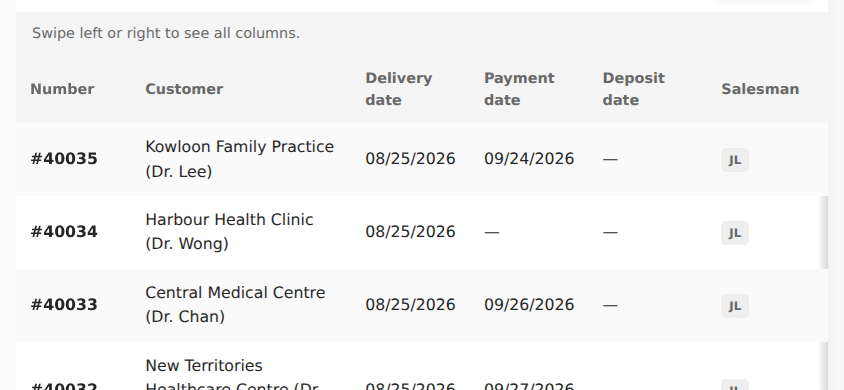
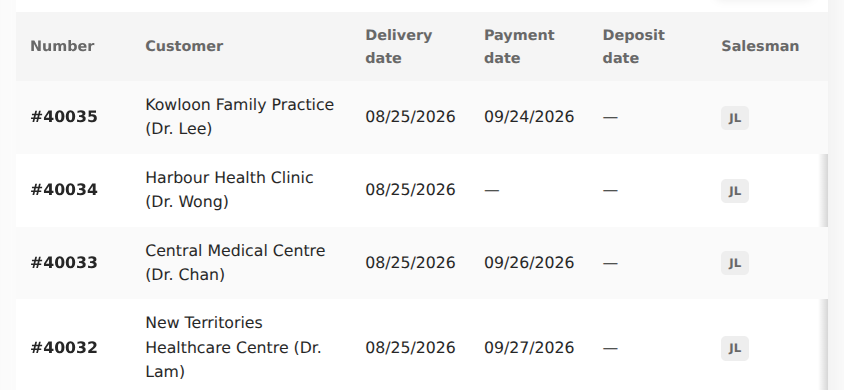
Remove redundant table hints from monthly reports

diff --git a/lafarge/static/js/responsive_tables.js b/lafarge/static/js/responsive_tables.js
@@ -106,13 +106,6 @@
           row.cells[keyColumn]?.classList.add("erp-sticky-key");
       });
     }
-    const hint = document.createElement("p");
-    hint.className = "table-scroll-hint";
-    hint.id = `${viewport.id}-hint`;
-    hint.textContent = "Swipe left or right to see all columns.";
-    viewport.before(hint);
-    viewport.setAttribute("aria-describedby", hint.id);
-
     if (stackable && !nested) {
       const controls = document.createElement("div");
       controls.className = "record-table-controls";
@@ -192,14 +185,12 @@
         portrait.matches &&
         !viewport.classList.contains("show-table");
       viewport.classList.toggle("is-overflowing", overflow);
-      hint.hidden = !overflow;
       viewport.tabIndex = overflow ? 0 : -1;
       headerControls.forEach(({ control, tabindex }) => {
         if (cards) control.tabIndex = -1;
         else if (tabindex === null) control.removeAttribute("tabindex");
         else control.setAttribute("tabindex", tabindex);
       });
-      // A nested record view does not need its own scroll instructions.
       if (cards) viewport.scrollLeft = 0;
     }
     new ResizeObserver(updateOverflow).observe(viewport);

diff --git a/lafarge/invoice/templates/invoice/monthly_payment_report.html b/lafarge/invoice/templates/invoice/monthly_payment_report.html
@@ -6,7 +6,7 @@
 {% block page_actions %}<a href="{% url 'monthly_payment_preview' %}" class="btn btn-outline-primary"><i class="bi bi-arrow-left" aria-hidden="true"></i> All months</a>{% endblock %}
 
 {% block content %}
-<section class="data-panel"><div class="panel-toolbar"><div><h2>Payment register</h2><p>Sort by any column to review payments and grouped totals.</p></div><span class="panel-label"><i class="bi bi-arrow-down-up" aria-hidden="true"></i> Sortable columns</span></div><p id="payment-sort-help" class="table-help">Grouped prices are totals for matching payment details.</p><div class="table-responsive" tabindex="0" role="region" aria-label="Payment register"><table id="monthly-payment-table" class="table align-middle border-0" aria-describedby="payment-sort-help">
+<section class="data-panel"><div class="panel-toolbar"><h2>Payment register</h2></div><div class="table-responsive" tabindex="0" role="region" aria-label="Payment register"><table id="monthly-payment-table" class="table align-middle border-0">
                     <thead class="bg-light text-dark">
                     <tr>
                         <th scope="col" data-sort-type="date" aria-sort="none">

diff --git a/lafarge/static/css/responsive_tables.css b/lafarge/static/css/responsive_tables.css
@@ -48,15 +48,6 @@
   .responsive-table-viewport.is-overflowing .table-hover > tbody > tr:hover > .erp-sticky-key {
     background: var(--erp-subtle) !important;
   }
-  .table-scroll-hint {
-    margin: 0;
-    padding: 10px 16px;
-    color: var(--erp-muted);
-    background: var(--erp-subtle);
-    border-bottom: 0;
-    font-size: 0.75rem;
-  }
-  .table-scroll-hint[hidden],
   .record-table-controls {
     display: none;
   }
@@ -406,8 +397,7 @@
   }
 }
 @media print {
-  .record-table-controls,
-  .table-scroll-hint {
+  .record-table-controls {
     display: none !important;
   }
   .responsive-table-viewport {

diff --git a/lafarge/static/css/style.css b/lafarge/static/css/style.css
@@ -415,14 +415,6 @@
 .erp-app .bg-light {
     background: #f5f5f5 !important;
 }
-.table-help {
-    padding: 11px 22px;
-    margin: 0;
-    background: #fafafa;
-    color: var(--erp-muted);
-    font-size: 0.72rem;
-    border-bottom: 1px solid #eeeeee;
-}
 .erp-app .filter-drawer.filter-panel {
     padding: 20px 22px;
     margin: 0;
